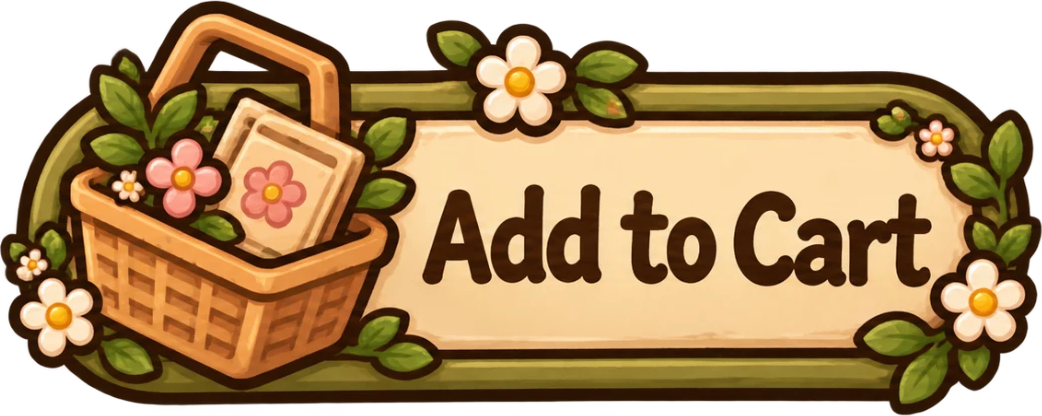
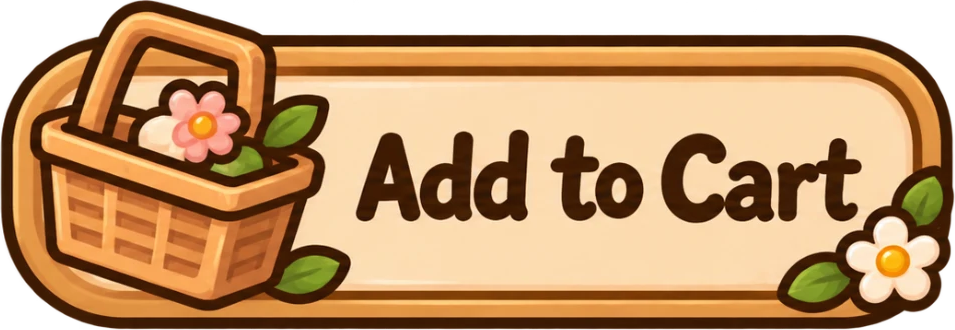
Nursery: new Add to Cart / Cashier button art
Claude-Session: https://claude.ai/code/session_01KbwSo6yL3mitC5MkkWGPtA

diff --git a/src/screens/NurseryScreen.js b/src/screens/NurseryScreen.js
@@ -282,7 +282,7 @@ export default function NurseryScreen({ navigation }) {
         const d = describe(detail);
         const have = owns(detail), inCart = basket.includes(detail), fav = favourites.includes(detail);
         const { desc, lines } = itemText(detail);
-        const AW = 150, AH = AW * 416 / 1042, CW = 130, CH = CW * 393 / 903;
+        const AW = 170, AH = AW * 330 / 955, CW = 160, CH = CW * 345 / 927;
         return (
           <TouchableOpacity activeOpacity={1} style={styles.panelWrap} onPress={() => setDetail(null)}>
             <TouchableOpacity activeOpacity={1} style={[styles.panel, { width: '60%' }]}>
